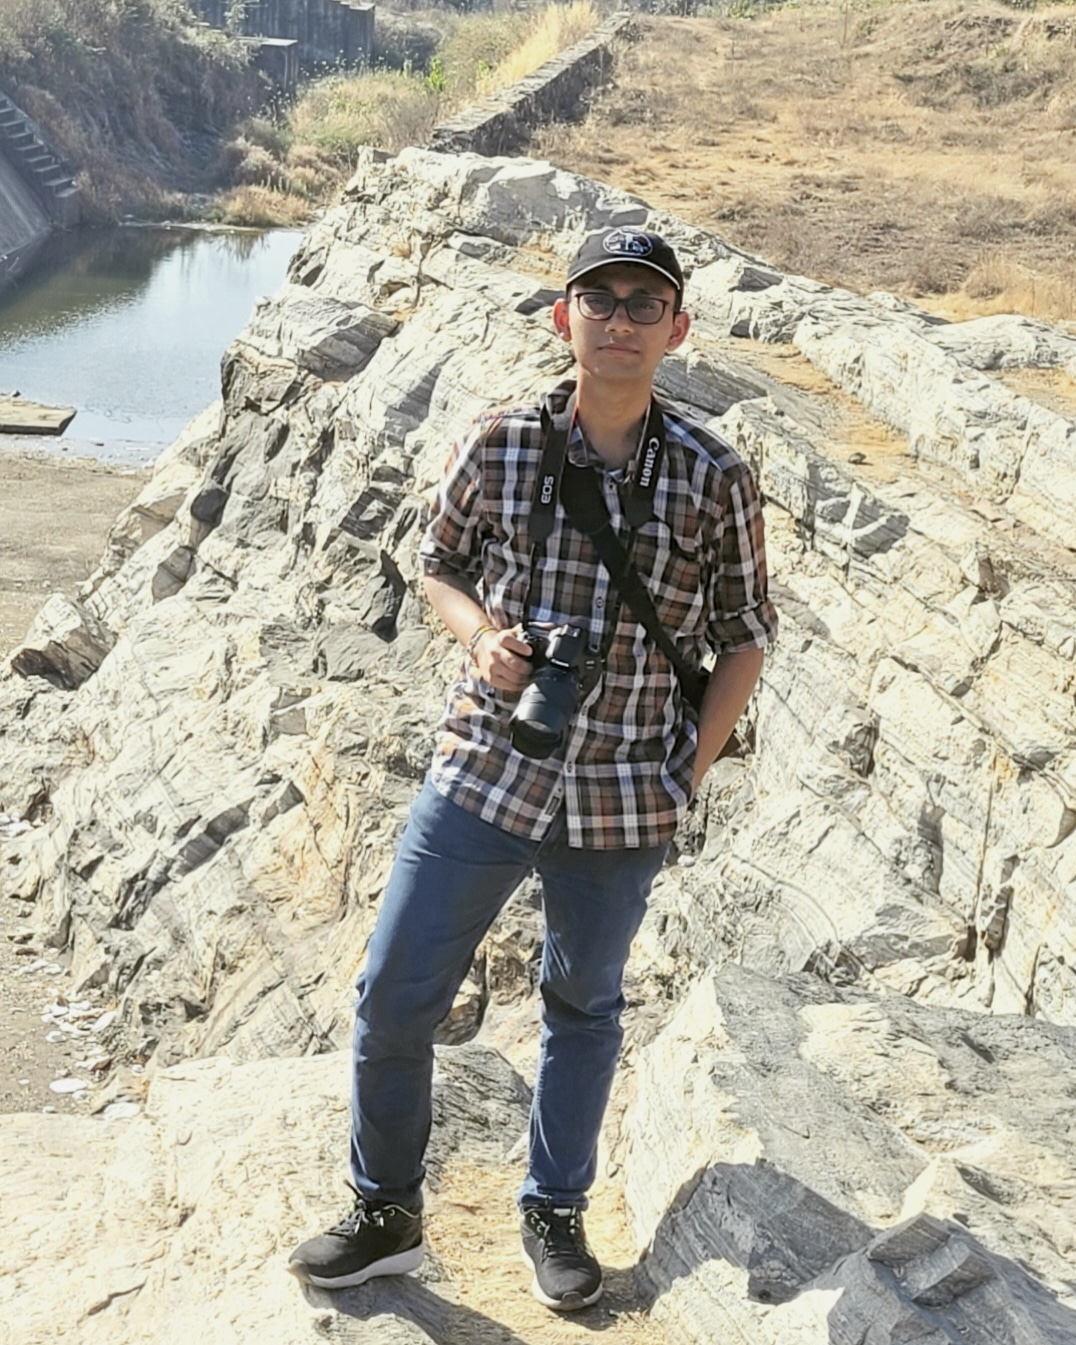
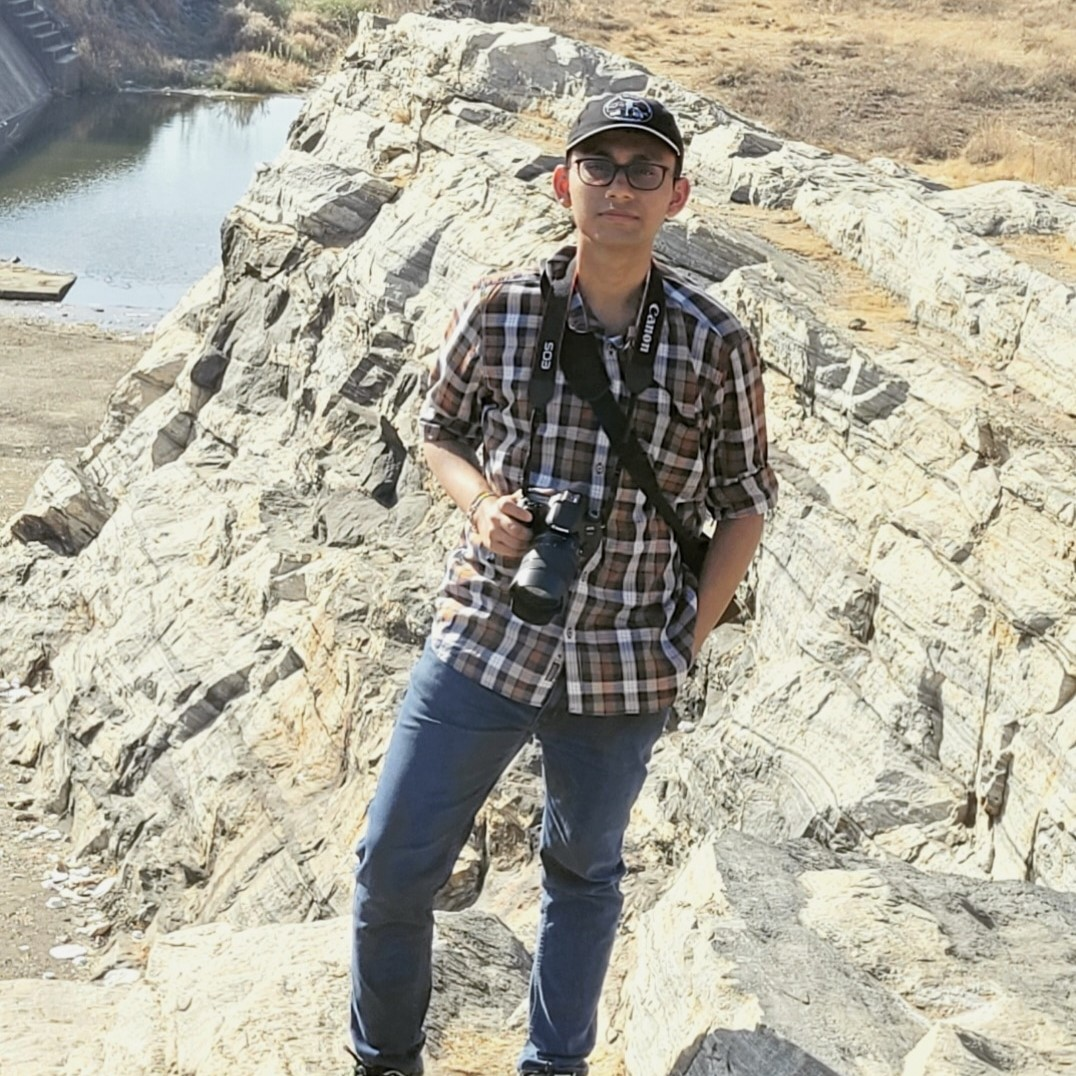
Fix team image

diff --git a/client/src/components/Team/CoreTeam.jsx b/client/src/components/Team/CoreTeam.jsx
@@ -11,7 +11,7 @@ import mainak_maiti_img from "../../assets/team/MAINAK MAITI.jpg"
 import prakritish_mukhopadhyay_img from "../../assets/team/PRAKRITISH MUKHOPADHYAY.jpg"
 import rajdeep_nath_img from "../../assets/team/Rajdeep Nath.jpg"
 import sayangdipta_sen_img from "../../assets/team/Sayangdipta Sen.jpg"
-import shankhalika_mallick_img from "../../assets/team/Shankhalika Mallick.jpg"
+import shankhalika_mallick_img from "../../assets/team/Shankhalika Mallick.jpeg"
 import shreyan_ghatak_img from "../../assets/team/Shreyan Ghatak.jpg"
 
 const CoreTeam = () => {
